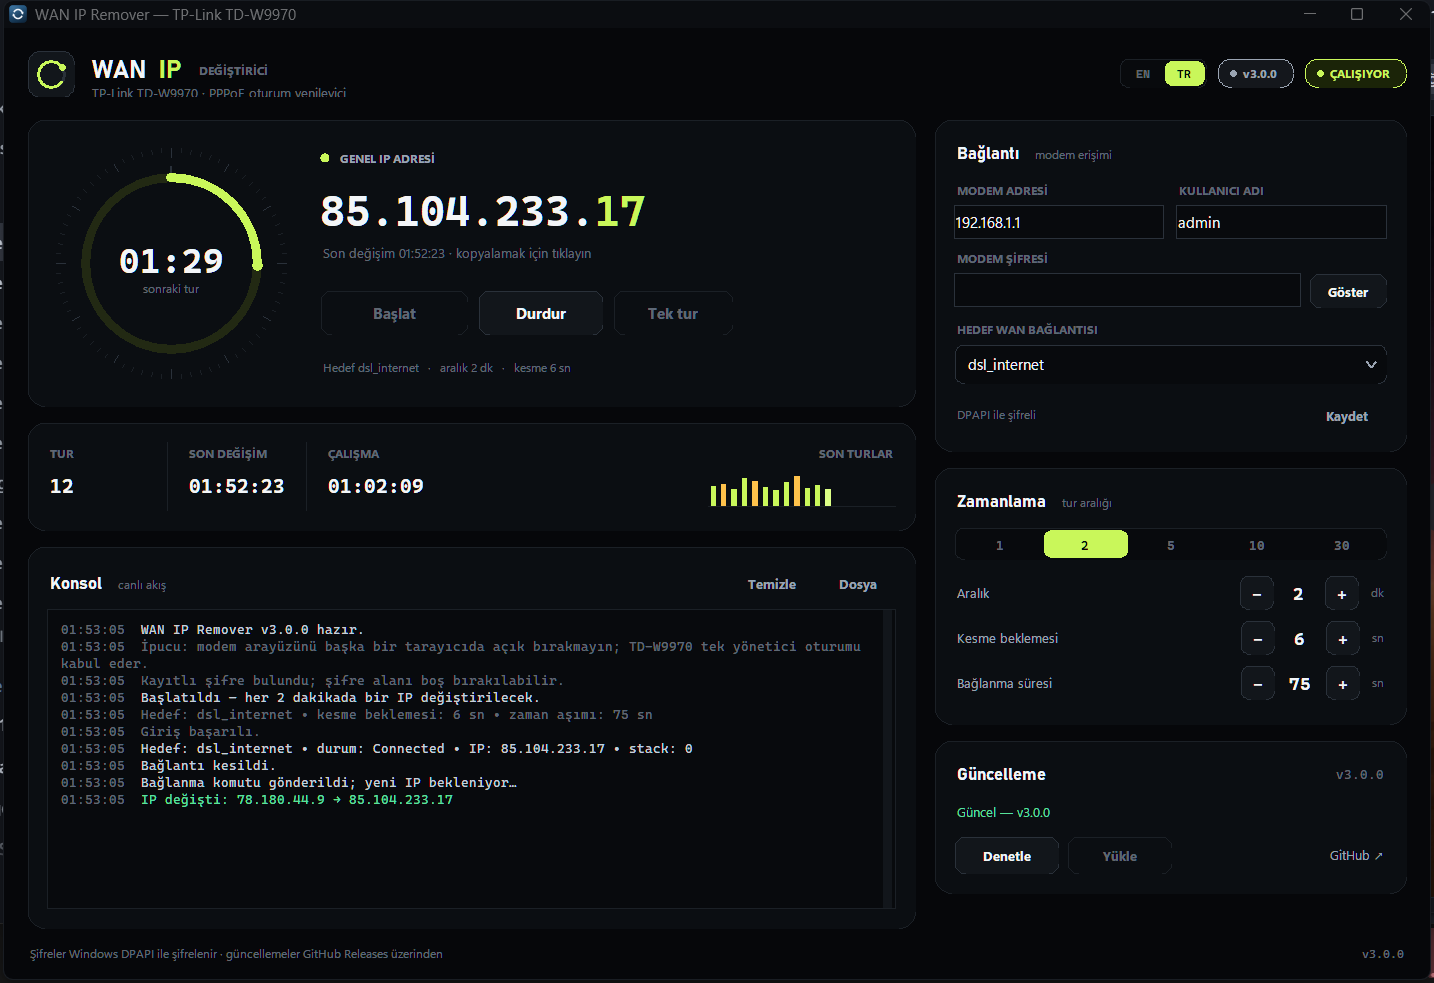
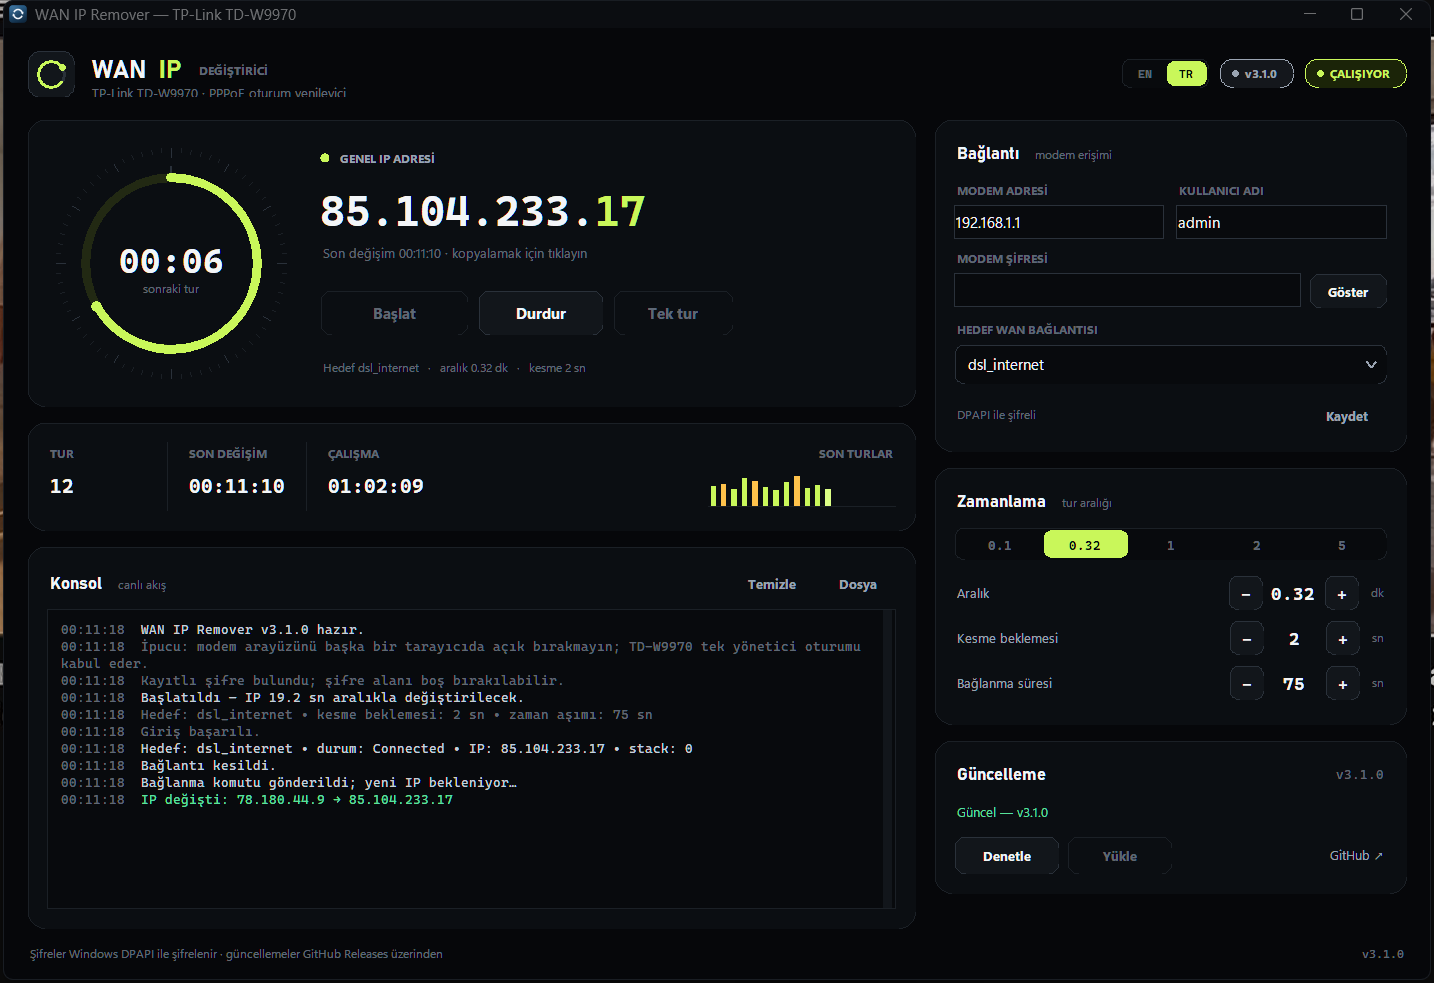
v3.1.0: sub-minute intervals, typed timing, faster reconnect polling

diff --git a/README.md b/README.md
@@ -4,8 +4,8 @@
 
 WAN IP Remover signs in to a TP-Link TD-W9970 router, drops the selected PPPoE WAN
 session and brings it straight back up, so the ISP hands out a fresh public IP.
-The cycle repeats on your chosen interval (2 minutes by default) and stops the
-moment you press **Stop**.
+The cycle repeats on the interval you choose — down to a few seconds, 0.32 min
+(≈19 s) by default — and stops the moment you press **Stop**.
 
 It never touches your DSL username or password — only the live PPPoE session is
 renewed.
@@ -70,12 +70,13 @@ If the window does not appear, run **`Start_Console.bat`** to see the error.
 
 | Setting | Default | Meaning |
 |---|---|---|
-| Interval | 2 min | Wait after a cycle finishes before the next one |
-| Disconnect gap | 6 s | Time the PPPoE session stays down (longer gap → better chance of a new IP) |
+| Interval | 0.32 min | Wait after a cycle finishes before the next one (decimals allowed, min 0.05 min = 3 s) |
+| Disconnect gap | 2 s | Time the PPPoE session stays down (longer gap → better chance of a new IP) |
 | Connect timeout | 75 s | How long to wait for the session to come back with an IP |
 
-The interval, gap and timeout are also editable with the steppers; presets jump
-to 1, 2, 5, 10 or 30 minutes.
+Click a stepper value to type an exact number (for example `0.32`). The presets
+jump to 0.1, 0.32, 1, 2 or 5 minutes; the `+` / `−` buttons step the interval by
+0.05 min (3 s).
 
 ## How it works
 
